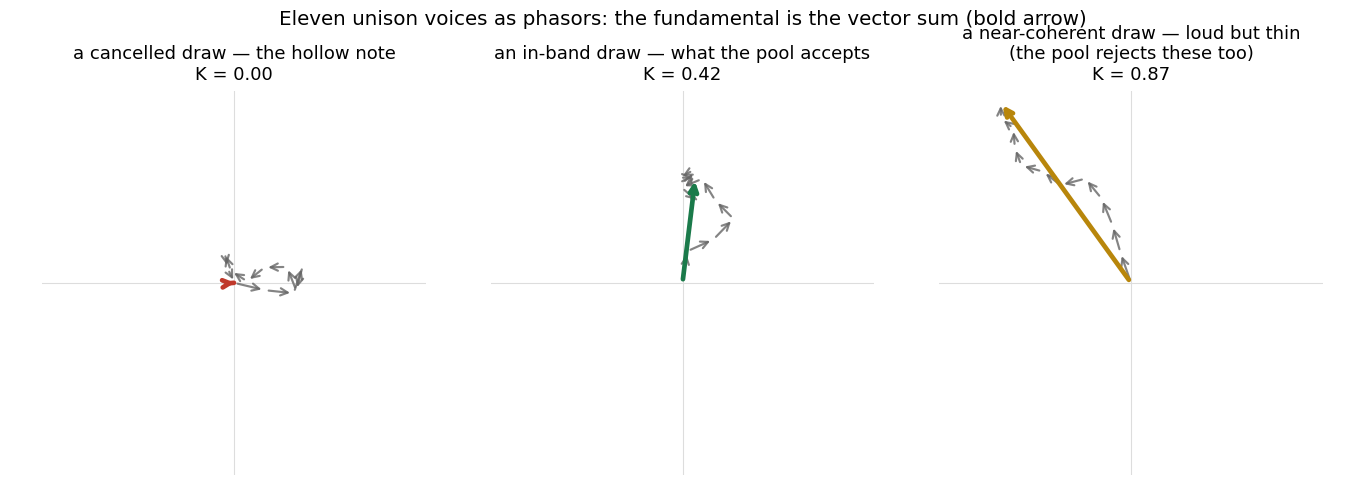
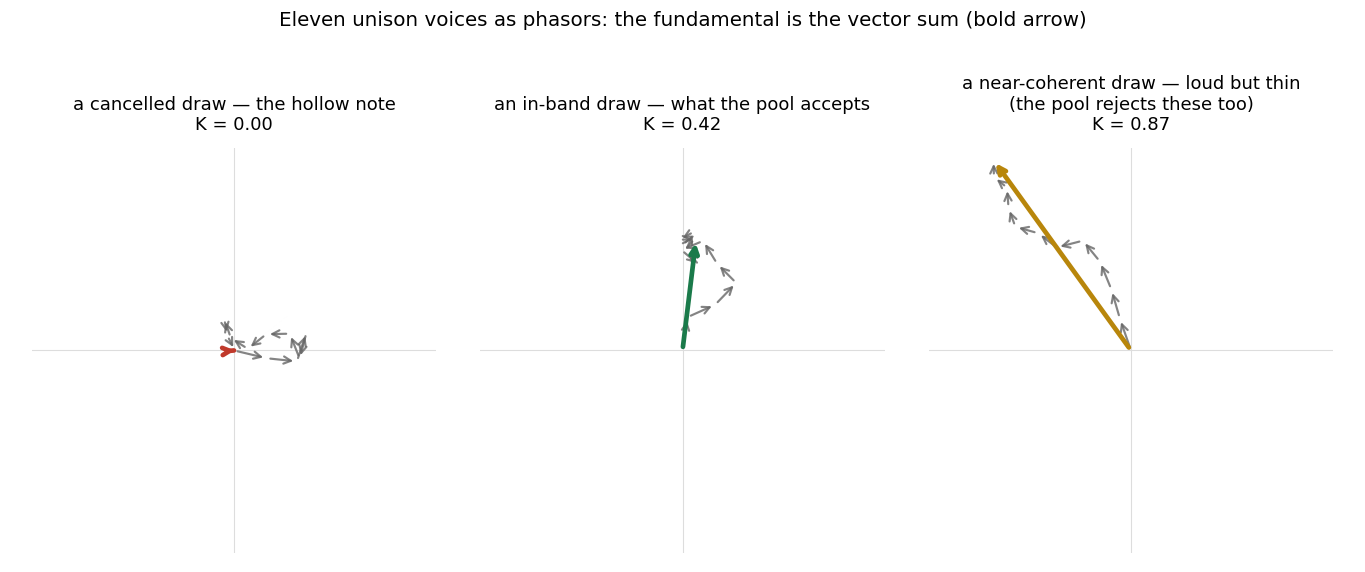
songs blog

diff --git a/src/commonMain/kotlin/builtinsongs/DerSchmetterling.kt b/src/commonMain/kotlin/builtinsongs/DerSchmetterling.kt
@@ -33,7 +33,7 @@ let supersawHp = (() => {
 
   let signal = Osc.supersaw(freq = Osc.freq(), voices = pVoices, spread = pSpread)
     // Important: enable the phase-pool for consistent onsets and fundamentals
-    .phasePool(on = 1)
+    .phasePool(on = 1, kMin = 0.4, kMax = 0.6)
     // character knobs — plain scalars, SuperSaw-typed, must precede the filter
     .analog(pAnalog).spreadPower(1.5).sideAtten(0.2).gainJitter(0.10).centerJitter(0.10).mul(4/4)
     // Add overtones 1 octave up
